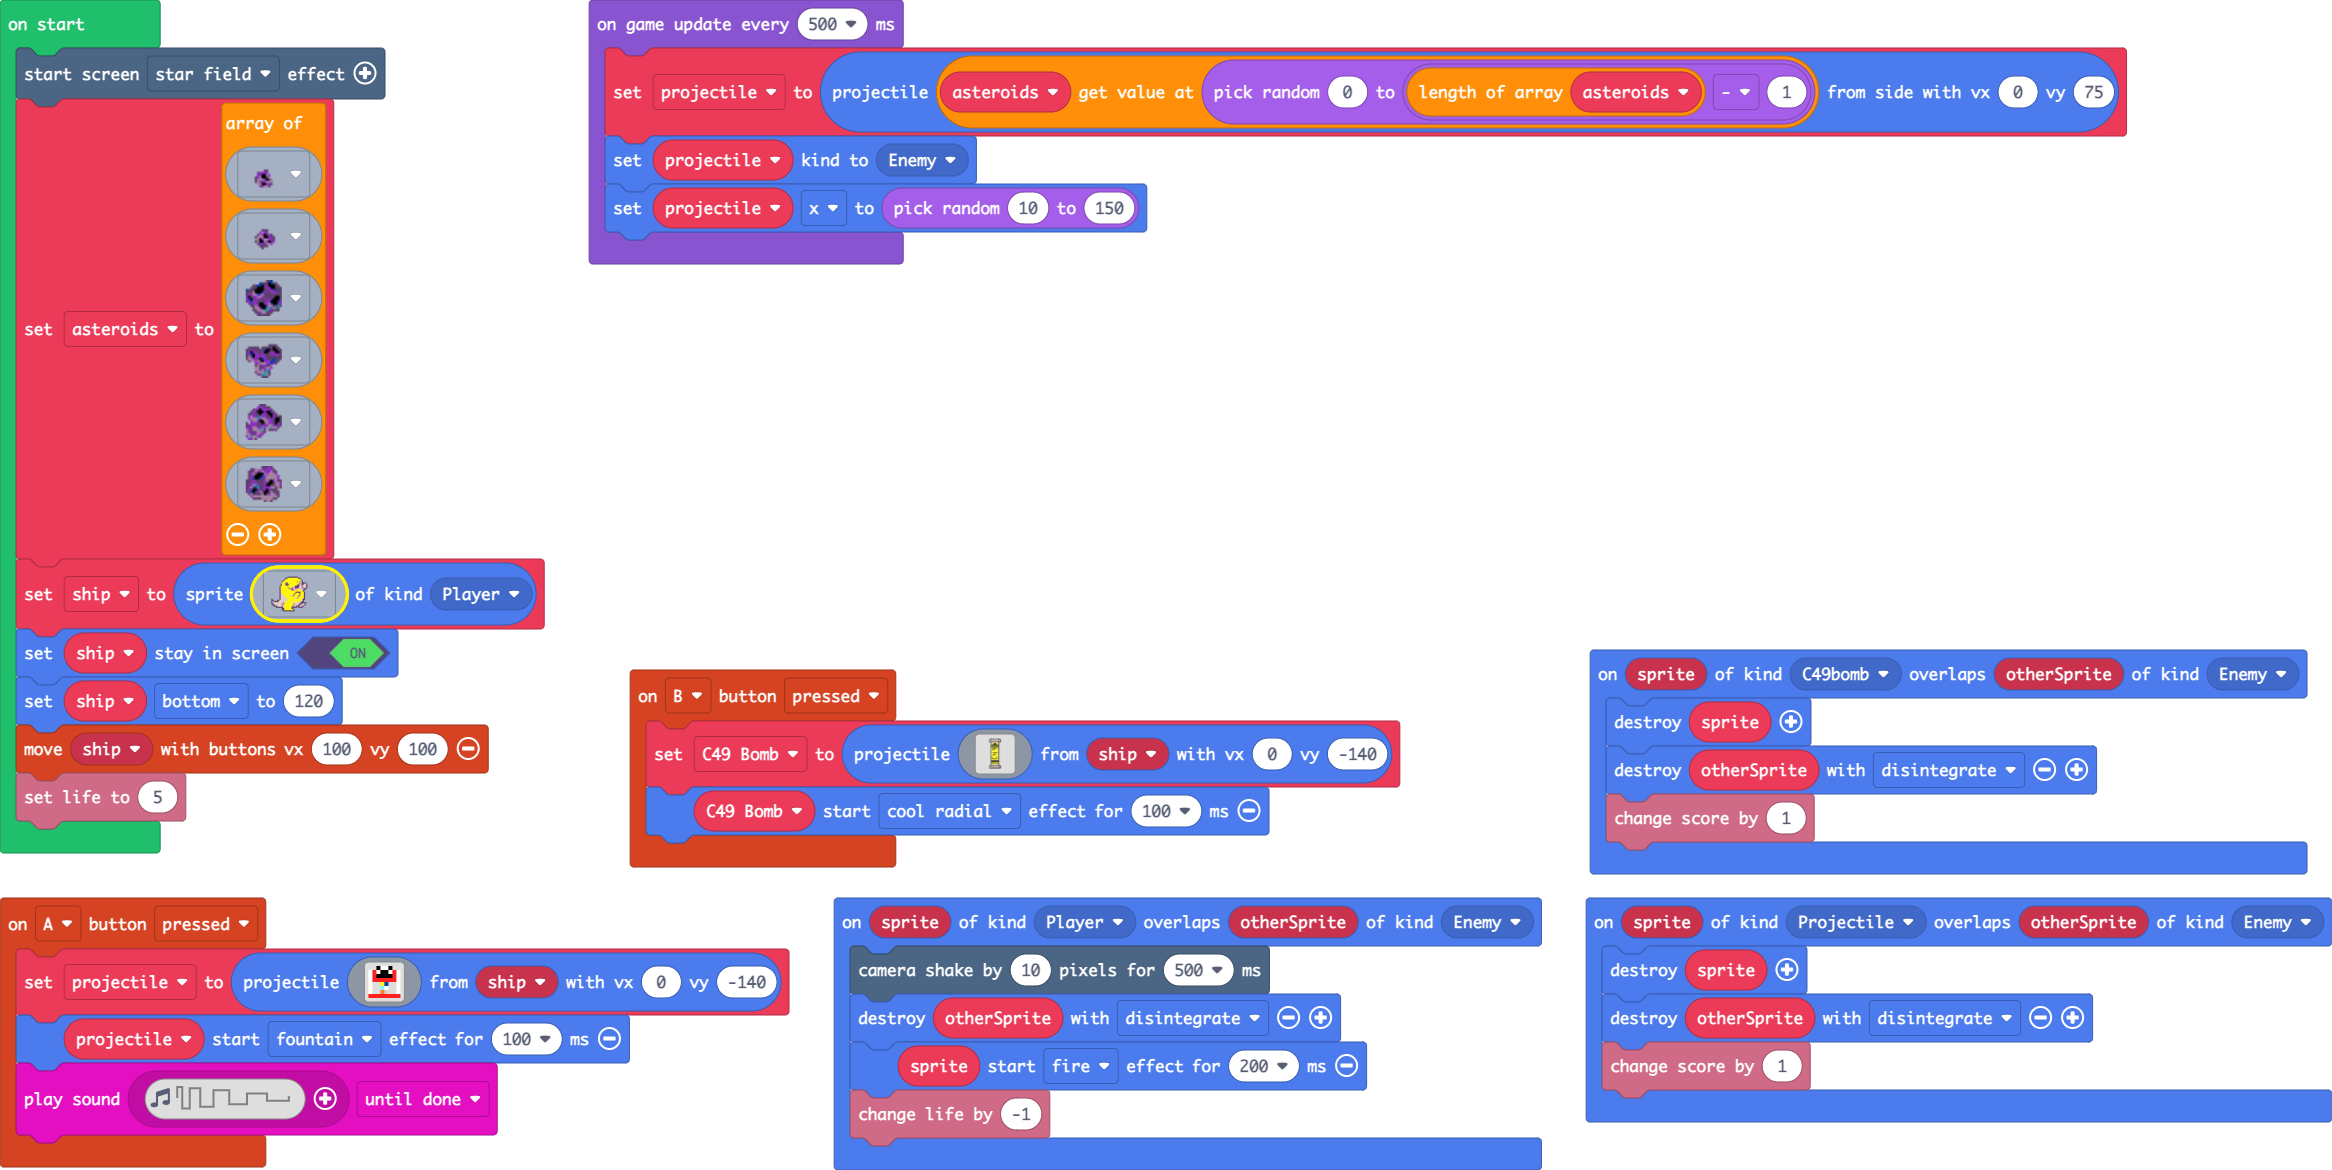
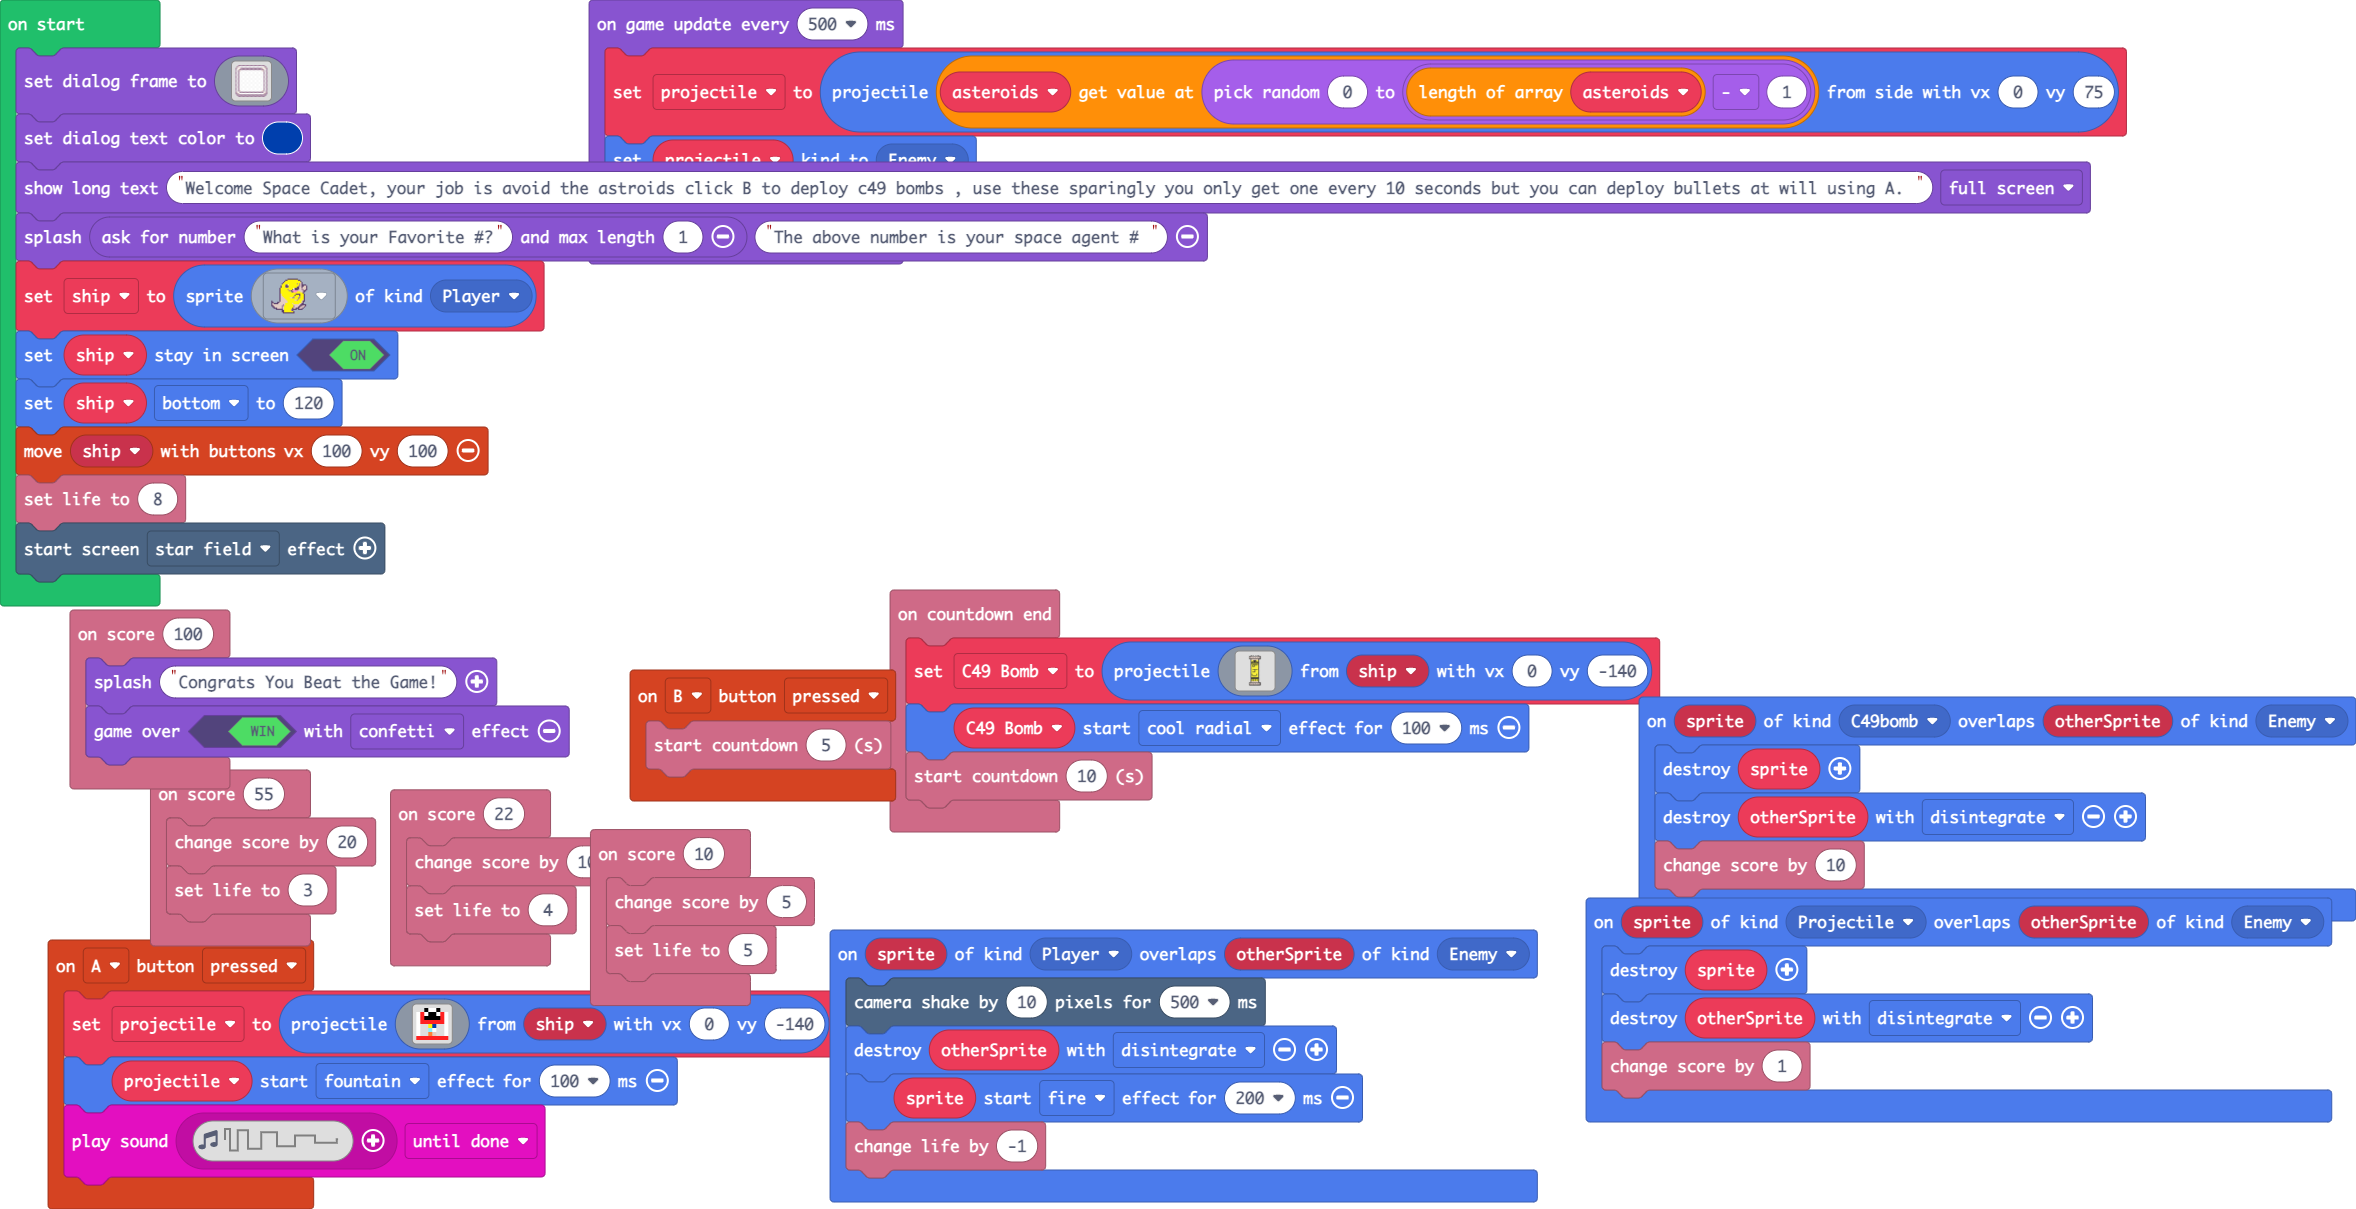
Update pxt.json, main.blocks, main.ts, tilemap.g.jres, tilemap.g.ts

diff --git a/main.ts b/main.ts
@@ -2,6 +2,28 @@ namespace SpriteKind {
     export const C49bomb = SpriteKind.create()
 }
 controller.B.onEvent(ControllerButtonEvent.Pressed, function () {
+    info.startCountdown(5)
+})
+sprites.onOverlap(SpriteKind.C49bomb, SpriteKind.Enemy, function (sprite, otherSprite) {
+    sprite.destroy()
+    otherSprite.destroy(effects.disintegrate)
+    info.changeScoreBy(10)
+})
+controller.A.onEvent(ControllerButtonEvent.Pressed, function () {
+    projectile = sprites.createProjectileFromSprite(img`
+        . . f 1 1 f . . 
+        1 2 1 f f 1 2 1 
+        1 2 f f f f 2 1 
+        1 2 2 2 2 2 2 1 
+        1 . . 5 8 . . 1 
+        1 . . 9 1 . . 1 
+        1 . . 4 d . . 1 
+        2 2 2 2 2 2 2 2 
+        `, ship, 0, -140)
+    projectile.startEffect(effects.fountain, 100)
+    music.playSoundEffect(music.createSoundEffect(WaveShape.Square, 5000, 1238, 186, 0, 250, SoundExpressionEffect.Warble, InterpolationCurve.Logarithmic), SoundExpressionPlayMode.UntilDone)
+})
+info.onCountdownEnd(function () {
     C49_Bomb = sprites.createProjectileFromSprite(img`
         ......ff1ff11ff1ff......
         .....f111111111111f.....
@@ -61,25 +83,23 @@ controller.B.onEvent(ControllerButtonEvent.Pressed, function () {
         ........................
         `, ship, 0, -140)
     C49_Bomb.startEffect(effects.coolRadial, 100)
+    info.startCountdown(10)
 })
-sprites.onOverlap(SpriteKind.C49bomb, SpriteKind.Enemy, function (sprite, otherSprite) {
-    sprite.destroy()
-    otherSprite.destroy(effects.disintegrate)
-    info.changeScoreBy(1)
+info.onScore(10, function () {
+    info.changeScoreBy(5)
+    info.setLife(5)
 })
-controller.A.onEvent(ControllerButtonEvent.Pressed, function () {
-    projectile = sprites.createProjectileFromSprite(img`
-        . . f 1 1 f . . 
-        1 2 1 f f 1 2 1 
-        1 2 f f f f 2 1 
-        1 2 2 2 2 2 2 1 
-        1 . . 5 8 . . 1 
-        1 . . 9 1 . . 1 
-        1 . . 4 d . . 1 
-        2 2 2 2 2 2 2 2 
-        `, ship, 0, -140)
-    projectile.startEffect(effects.fountain, 100)
-    music.playSoundEffect(music.createSoundEffect(WaveShape.Square, 5000, 1238, 186, 0, 250, SoundExpressionEffect.Warble, InterpolationCurve.Logarithmic), SoundExpressionPlayMode.UntilDone)
+info.onScore(100, function () {
+    game.splash("Congrats You Beat the Game!")
+    game.over(true, effects.confetti)
+})
+info.onScore(22, function () {
+    info.changeScoreBy(10)
+    info.setLife(4)
+})
+info.onScore(55, function () {
+    info.changeScoreBy(20)
+    info.setLife(3)
 })
 sprites.onOverlap(SpriteKind.Projectile, SpriteKind.Enemy, function (sprite, otherSprite) {
     sprite.destroy()
@@ -92,24 +112,46 @@ sprites.onOverlap(SpriteKind.Player, SpriteKind.Enemy, function (sprite, otherSp
     sprite.startEffect(effects.fire, 200)
     info.changeLifeBy(-1)
 })
-let projectile: Sprite = null
 let C49_Bomb: Sprite = null
+let projectile: Sprite = null
 let ship: Sprite = null
-effects.starField.startScreenEffect()
-let asteroids = [
-sprites.space.spaceSmallAsteroid1,
-sprites.space.spaceSmallAsteroid0,
-sprites.space.spaceAsteroid0,
-sprites.space.spaceAsteroid1,
-sprites.space.spaceAsteroid4,
-sprites.space.spaceAsteroid3
-]
+game.setDialogFrame(img`
+    ..bbbbbbbbbbbbbbbbbbbb..
+    .bd111111111111111111db.
+    bd1dbbbbbbbbbbbbbbbbd1db
+    b1dbbbbbbbbbbbbbbbbbbd1b
+    b1bd1111111111111111db1b
+    b1b111111111111111111b1b
+    b1b111111111111111111b1b
+    b1b111111111111111111b1b
+    b1b111111111111111111b1b
+    b1b111111111111111111b1b
+    b1b111111111111111111b1b
+    b1b111111111111111111b1b
+    b1b111111111111111111b1b
+    b1b111111111111111111b1b
+    b1b111111111111111111b1b
+    b1b111111111111111111b1b
+    b1b111111111111111111b1b
+    b1b111111111111111111b1b
+    b1b111111111111111111b1b
+    b1bd1111111111111111db1b
+    bd1bbbbbbbbbbbbbbbbbb1db
+    bbd111111111111111111dbb
+    .bbbbbbbbbbbbbbbbbbbbbb.
+    ..bbbbbbbbbbbbbbbbbbbb..
+    `)
+game.setDialogTextColor(8)
+game.showLongText("Welcome Space Cadet, your job is avoid the astroids click B to deploy c49 bombs , use these sparingly you only get one every 10 seconds but you can deploy bullets at will using A. ", DialogLayout.Full)
+game.splash(game.askForNumber("What is your Favorite #?", 1), "The above number is your space agent # ")
 ship = sprites.create(sprites.kaiju.kaijuBabyLarge, SpriteKind.Player)
 ship.setStayInScreen(true)
 ship.bottom = 120
 controller.moveSprite(ship, 100, 100)
-info.setLife(5)
+info.setLife(8)
+effects.starField.startScreenEffect()
 game.onUpdateInterval(500, function () {
+    let asteroids: Image[] = []
     projectile = sprites.createProjectileFromSide(asteroids[randint(0, asteroids.length - 1)], 0, 75)
     projectile.setKind(SpriteKind.Enemy)
     projectile.x = randint(10, 150)

diff --git a/tilemap.g.ts b/tilemap.g.ts
@@ -48,6 +48,10 @@ namespace myTiles {
     export const tile22 = image.ofBuffer(hex``);
     //% fixedInstance jres blockIdentity=images._tile
     export const tile23 = image.ofBuffer(hex``);
+    //% fixedInstance jres blockIdentity=images._tile
+    export const tile24 = image.ofBuffer(hex``);
+    //% fixedInstance jres blockIdentity=images._tile
+    export const tile25 = image.ofBuffer(hex``);
 
     helpers._registerFactory("tilemap", function(name: string) {
         switch(helpers.stringTrim(name)) {
@@ -72,6 +76,25 @@ namespace myTiles {
 `, [myTiles.transparency16,myTiles.tile1,myTiles.tile2,myTiles.tile3,myTiles.tile4,myTiles.tile5,myTiles.tile6,myTiles.tile7,myTiles.tile8,myTiles.tile9,myTiles.tile10,myTiles.tile11,myTiles.tile12,myTiles.tile13,myTiles.tile14,myTiles.tile15,myTiles.tile16,myTiles.tile17,myTiles.tile18,myTiles.tile19,myTiles.tile20,myTiles.tile21,myTiles.tile22,myTiles.tile23], TileScale.Sixteen);
             case "level2":
             case "level2":return tiles.createTilemap(hex`1000100000000000000000000000000000000000000000000000000000000000000000000000000000000000000000000000000000000000000000000000000000000000000000000000000000000000000000000000000000000000000000000000000000000000000000000000000000000000000000000000000000000000000000000000000000000000000000000000000000000000000000000000000000000000000000000000000000000000000000000000000000000000000000000000000000000000000000000000000000000000000000000000000000000000000000000000000000000000000000000000000000000000000000000000000000000000`, img`
+. . . . . . . . . . . . . . . . 
+. . . . . . . . . . . . . . . . 
+. . . . . . . . . . . . . . . . 
+. . . . . . . . . . . . . . . . 
+. . . . . . . . . . . . . . . . 
+. . . . . . . . . . . . . . . . 
+. . . . . . . . . . . . . . . . 
+. . . . . . . . . . . . . . . . 
+. . . . . . . . . . . . . . . . 
+. . . . . . . . . . . . . . . . 
+. . . . . . . . . . . . . . . . 
+. . . . . . . . . . . . . . . . 
+. . . . . . . . . . . . . . . . 
+. . . . . . . . . . . . . . . . 
+. . . . . . . . . . . . . . . . 
+. . . . . . . . . . . . . . . . 
+`, [myTiles.transparency16], TileScale.Sixteen);
+            case "level3":
+            case "level3":return tiles.createTilemap(hex`1000100000000000000000000000000000000000000000000000000000000000000000000000000000000000000000000000000000000000000000000000000000000000000000000000000000000000000000000000000000000000000000000000000000000000000000000000000000000000000000000000000000000000000000000000000000000000000000000000000000000000000000000000000000000000000000000000000000000000000000000000000000000000000000000000000000000000000000000000000000000000000000000000000000000000000000000000000000000000000000000000000000000000000000000000000000000000`, img`
 . . . . . . . . . . . . . . . . 
 . . . . . . . . . . . . . . . . 
 . . . . . . . . . . . . . . . . 
@@ -142,6 +165,10 @@ namespace myTiles {
             case "tile22":return tile22;
             case "myTile21":
             case "tile23":return tile23;
+            case "myTile22":
+            case "tile24":return tile24;
+            case "myTile23":
+            case "tile25":return tile25;
         }
         return null;
     })
